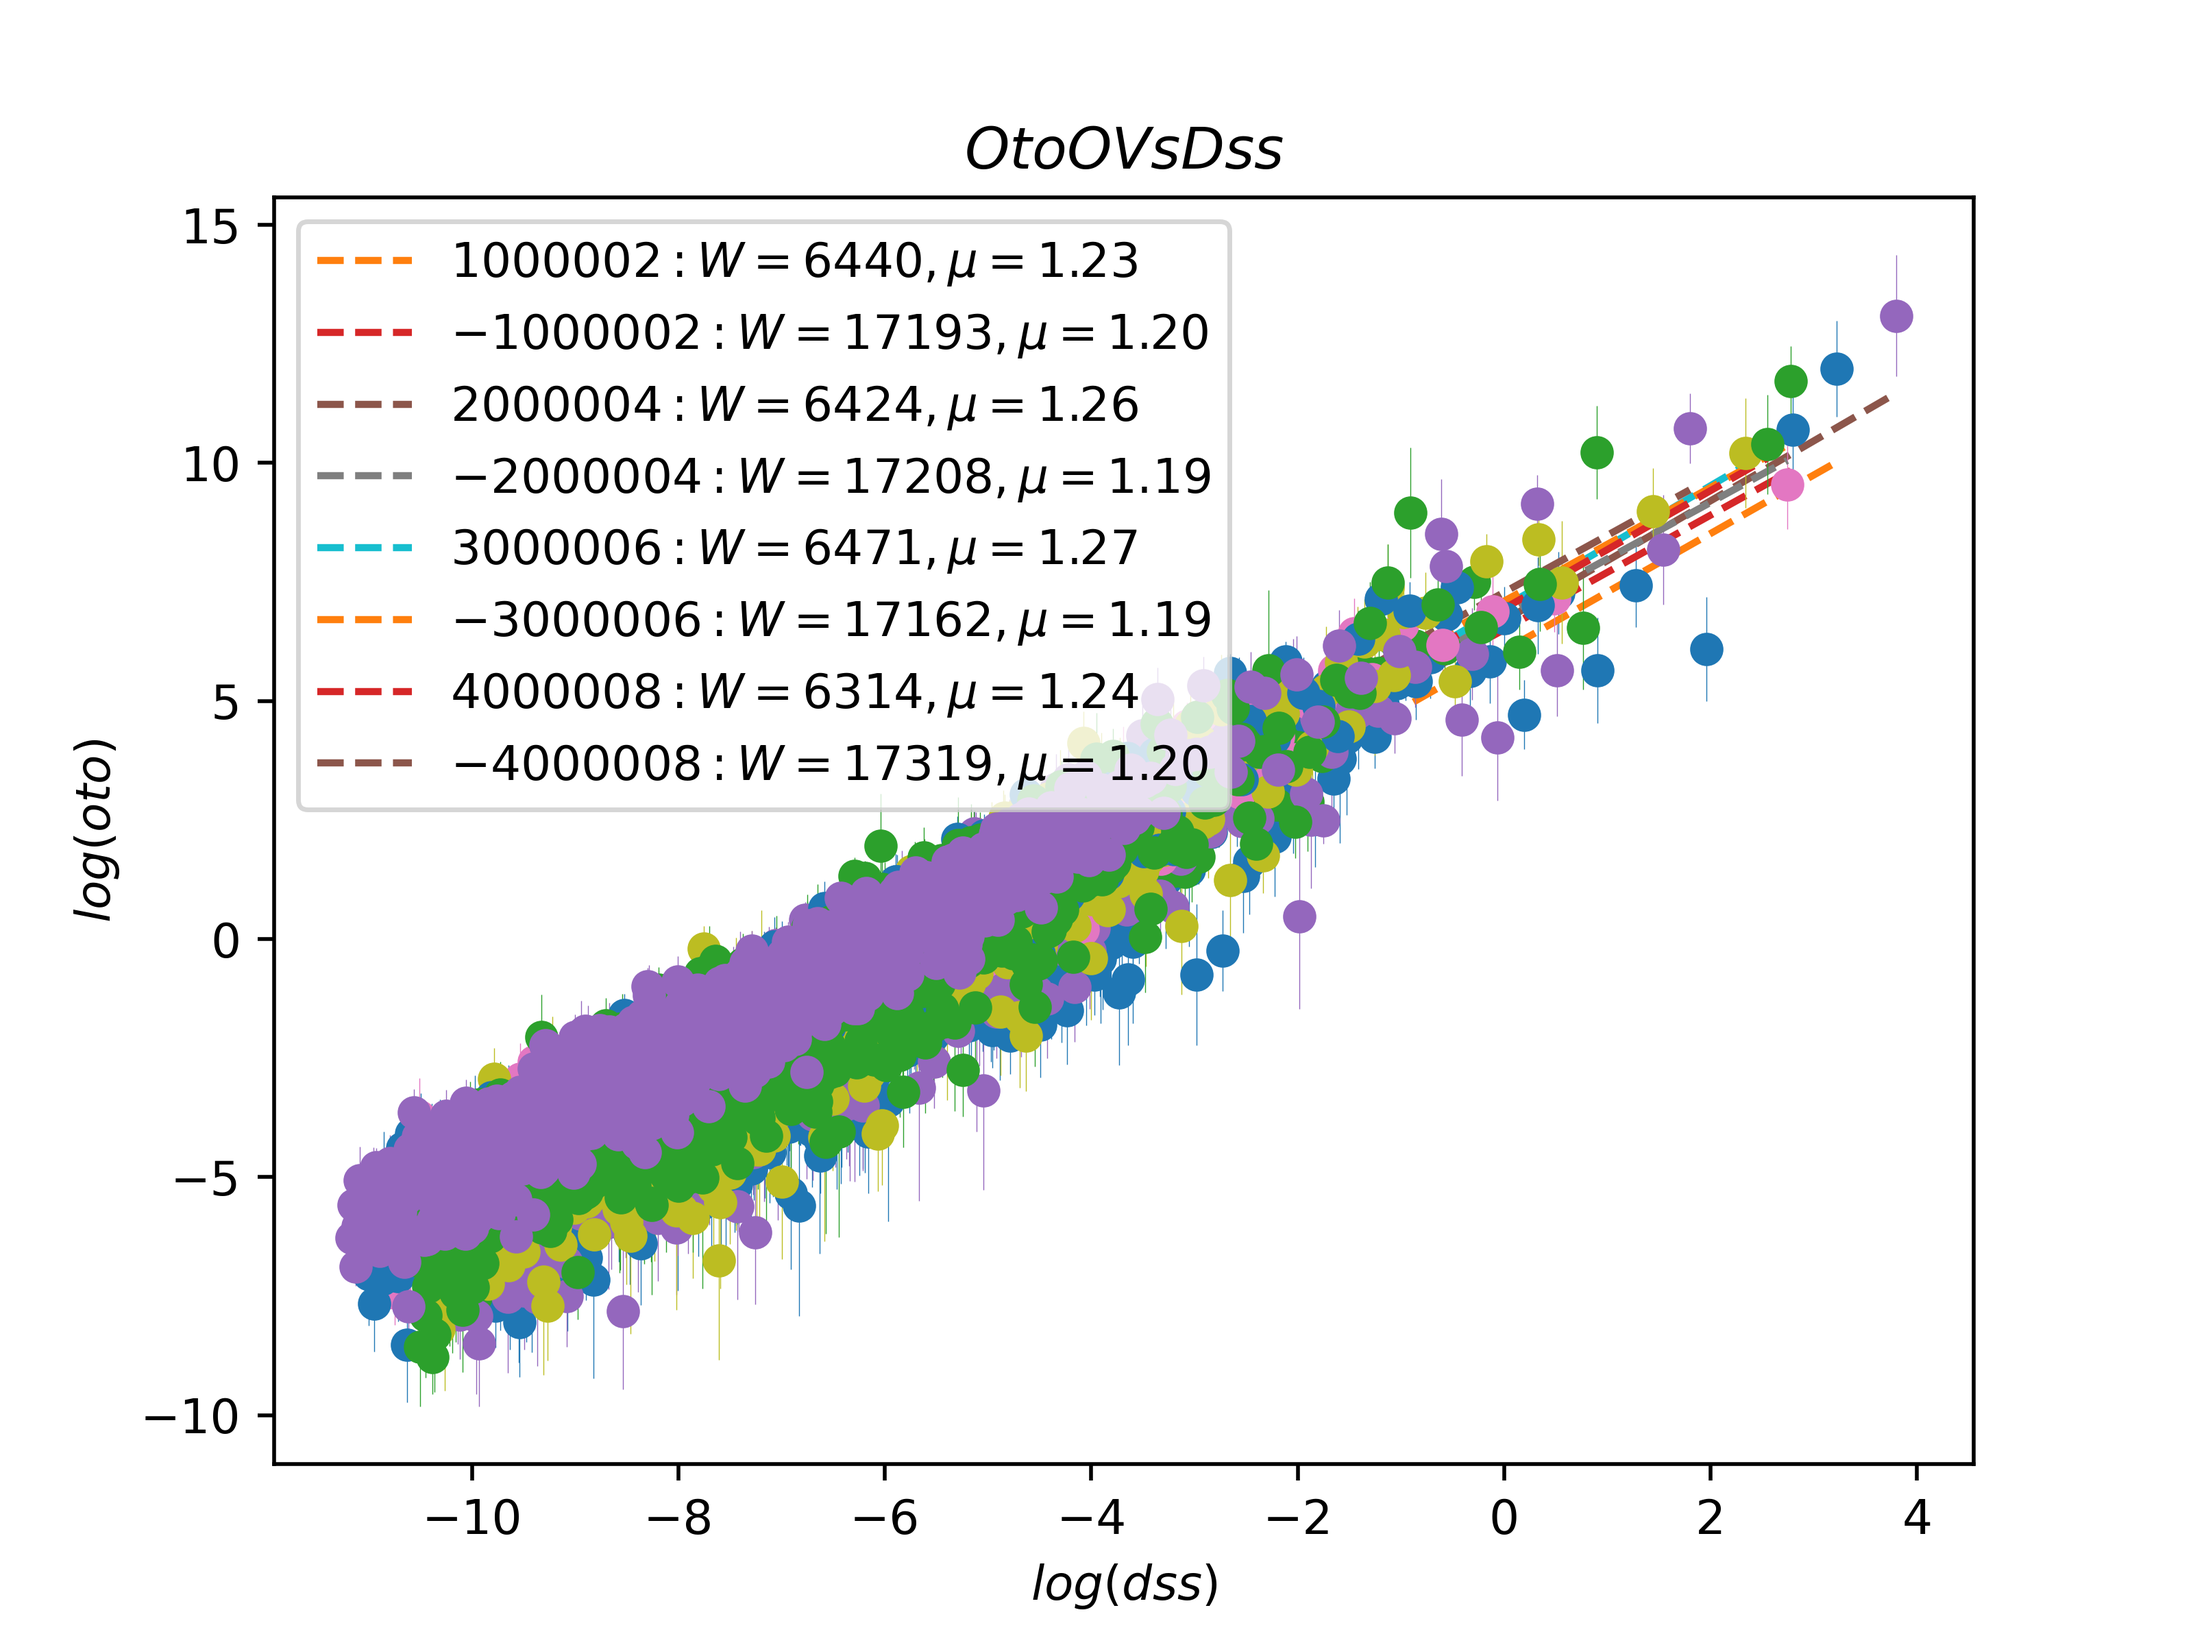
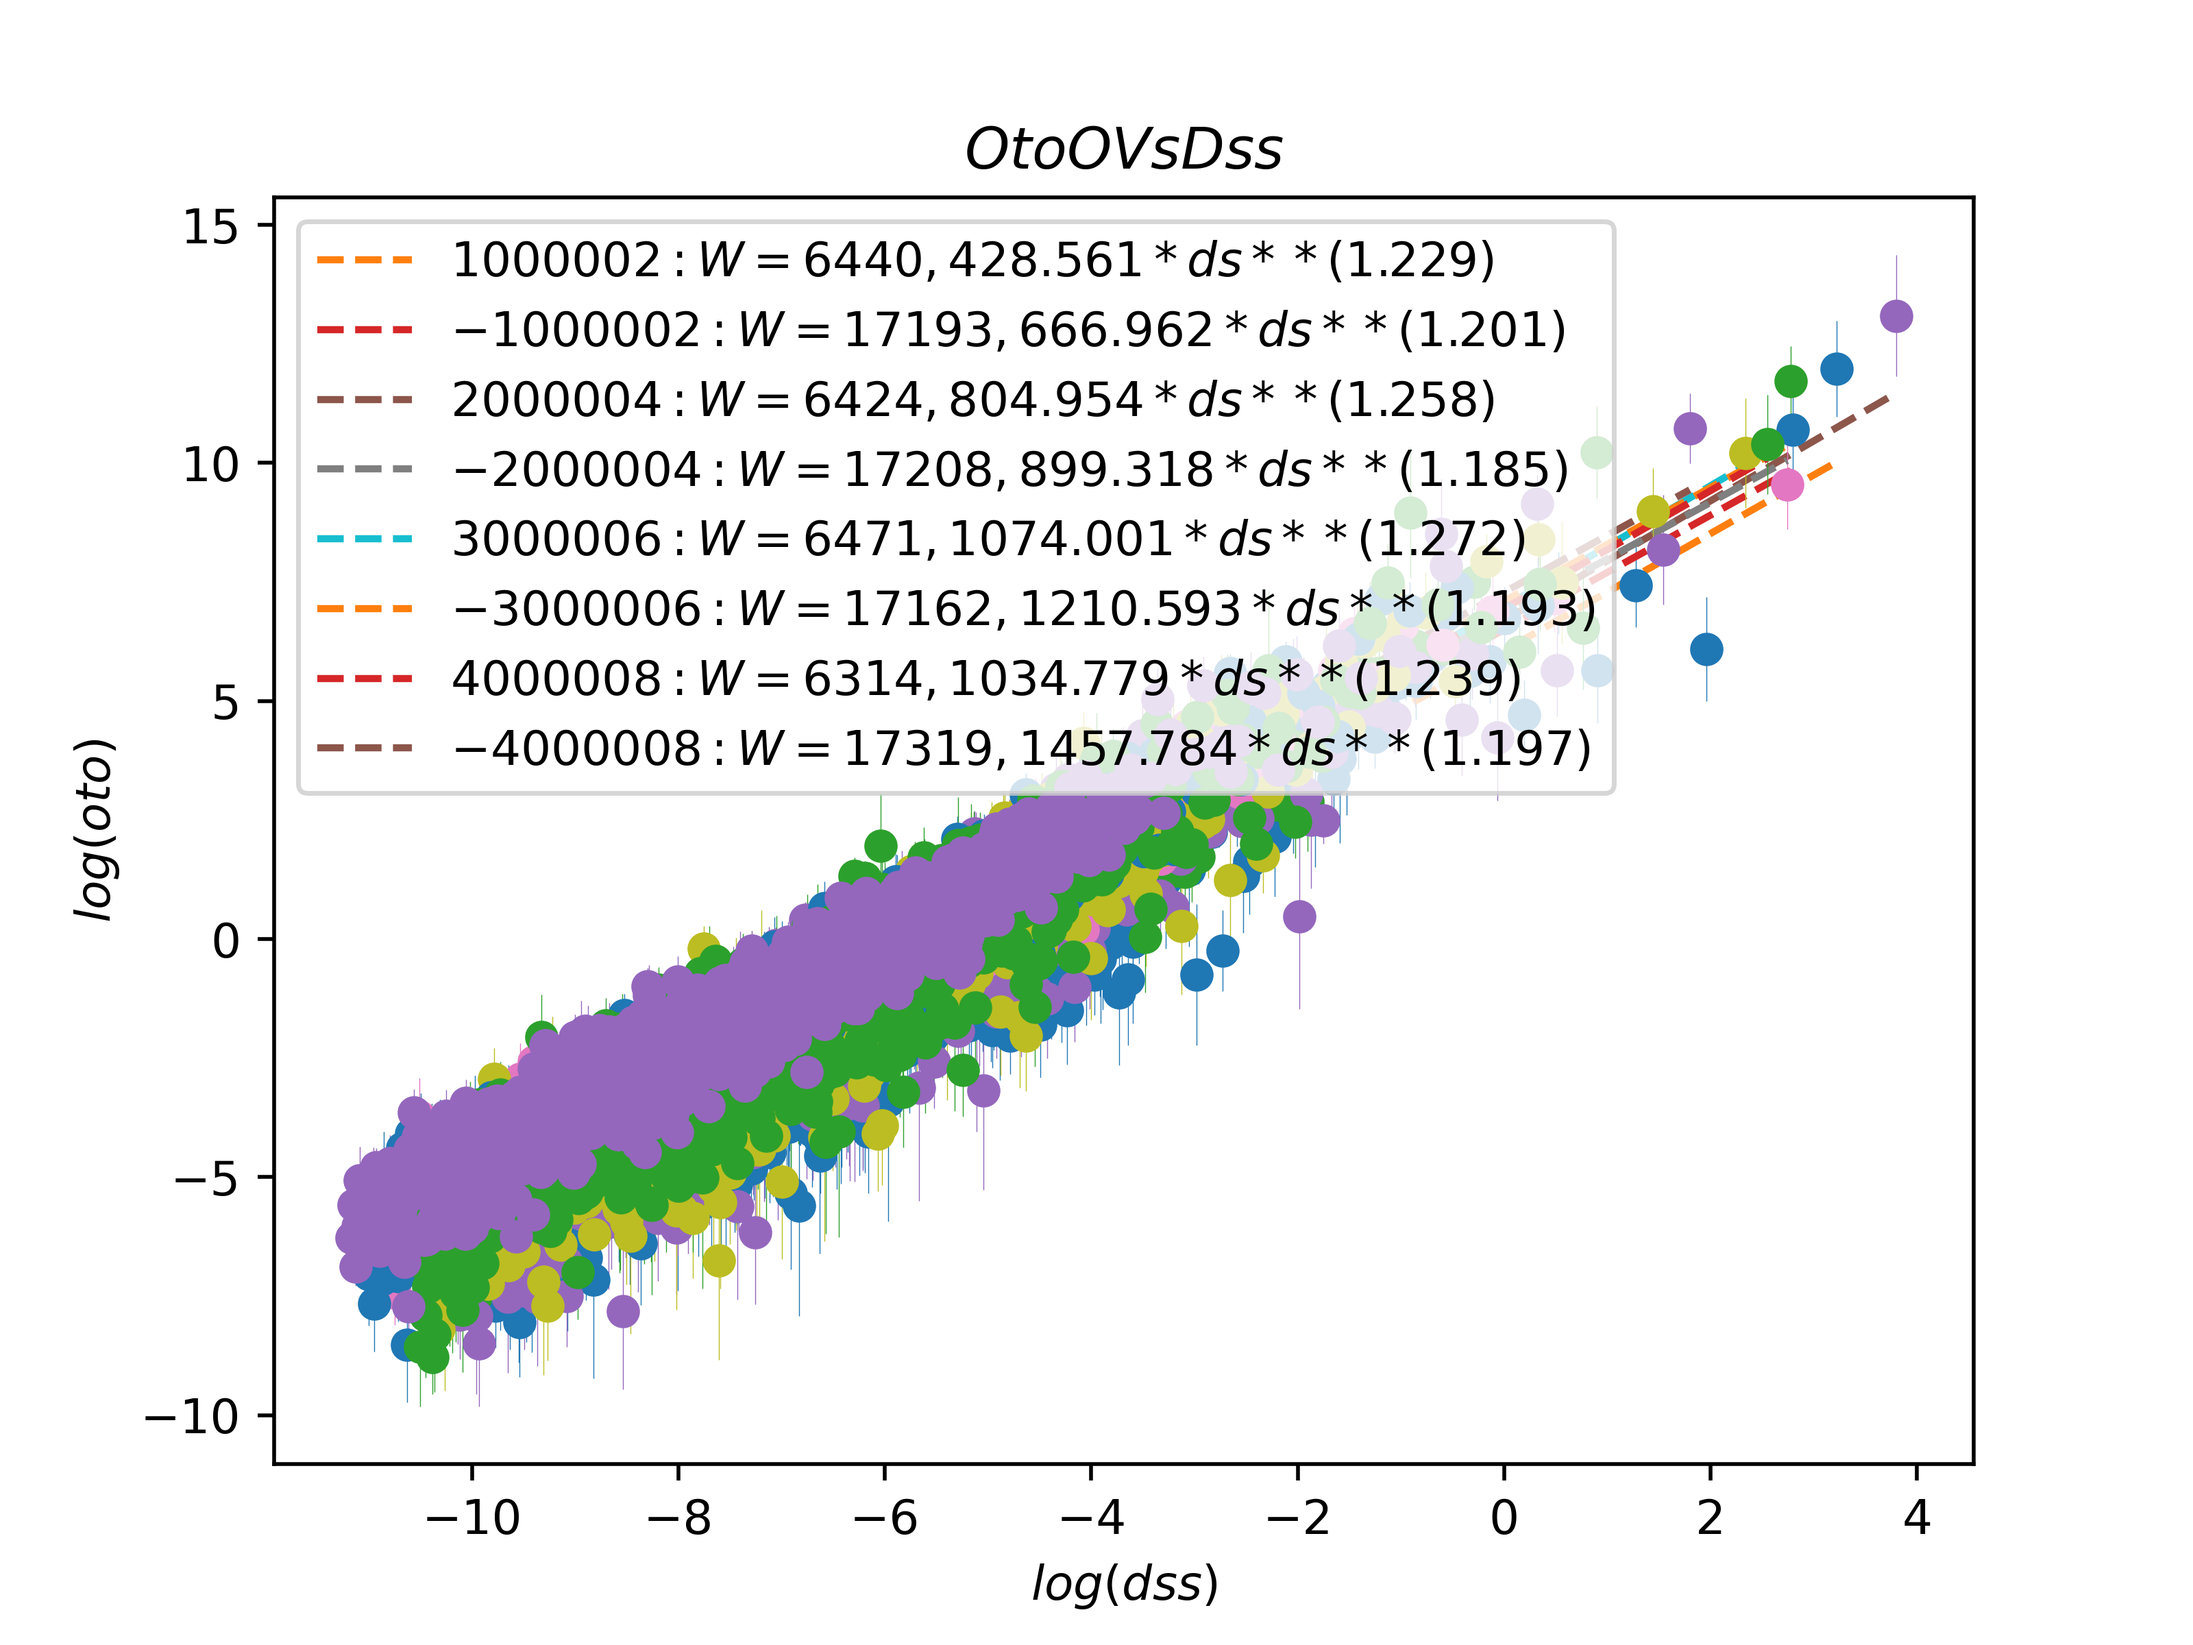
added one more plot for M = 1M to  4M pts

Changed region(s): [[0.125, 0.125, 0.75, 0.5], [0.1562, 0.2188, 0.1875, 0.25]]

diff --git a/plot.py b/plot.py
@@ -436,7 +436,7 @@ def MultiXYPlot(data, plotpath, logx=True, logy=True, title='XY',scatter=False, 
                 l = np.log(x[-N:])
                 t = np.log(y[-N:])
                 p = np.polyfit(l,t,  1)
-                lab = '$%s:W=%d, \mu=%.2f$' % (name,N, p[0])
+                lab = '$%s:W=%d, %.3f*ds**(%.3f)$' % (name,N, np.exp(p[1]),p[0])
                 ll,tt,ee  = SubSampleWithErr(l,t,num_subsamples)
                 plt.errorbar(ll, tt, yerr=ee, fmt='o', elinewidth=0.2)
                 l01 = [ll[0], ll[-1]]
